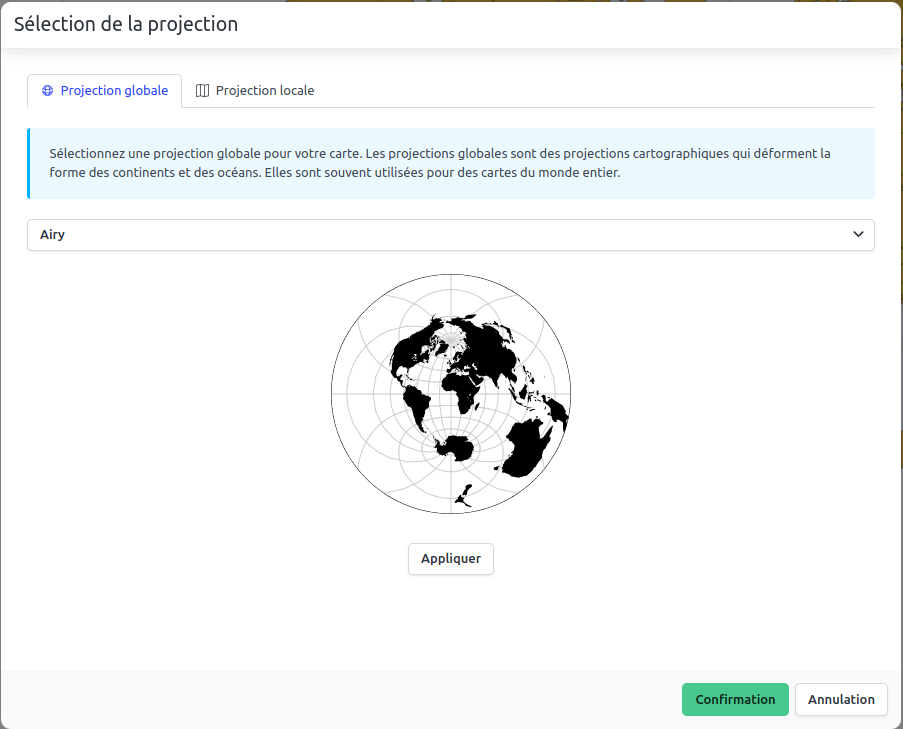
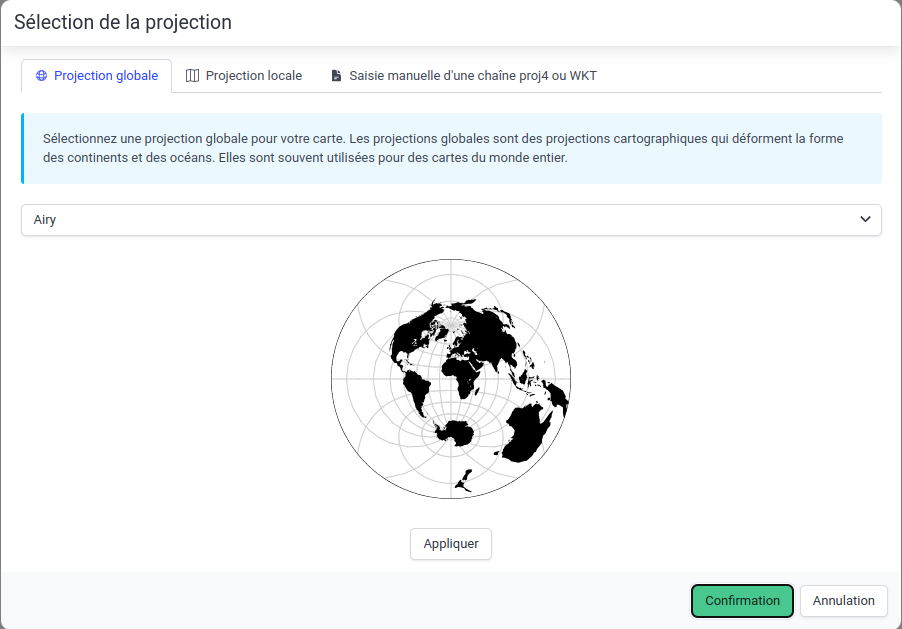
docs: improve minor stuff to keep it up to date with the app

diff --git a/docs/en/tutorials/tuto2.md b/docs/en/tutorials/tuto2.md
@@ -17,8 +17,8 @@ To do this, we're going to create a map of abstention in the second round of the
 
 ### 1.1 Recovering the base map
 
-The <a href="http://data.metropolegrenoble.fr/" >Grenoble Metropole's Open Data platform</a> makes numerous datasets available,
-including the delimitation of polling stations in the City of Grenoble: <a href="https://data.metropolegrenoble.fr/visualisation/information/?id=les-bureaux-de-vote" target="_blank" rel="noopener noreferrer">https://data.metropolegrenoble.fr/visualisation/information/?id=les-bureaux-de-vote</a>.
+The <a href="http://data.metropolegrenoble.fr/" target="_blank" rel="noopener noreferrer">Grenoble Metropole's Open Data platform</a> makes numerous datasets available,
+including the delimitation of polling stations in the City of Grenoble: https://data.metropolegrenoble.fr/visualisation/information/?id=les-bureaux-de-vote.
 
 <ZoomImg
     src="/tuto2-1.png"
@@ -38,7 +38,7 @@ We'll use the GeoJSON file for this example.
 ### 1.2 Retrieving the results of the 2022 legislative elections
 
 
-The results of the 2022 legislative elections are also available on the Grenoble Metropole's Open Data platform: <a href="https://data.metropolegrenoble.fr/visualisation/information/?id=resultats_des_elections_legislatives_de_la_ville_de_grenoble" target="_blank" rel="noopener noreferrer">https://data.metropolegrenoble.fr/visualisation/information/?id=resultats_des_elections_legislatives_de_la_ville_de_grenoble</a>.
+The results of the 2022 legislative elections are also available on the Grenoble Metropole's Open Data platform: https://data.metropolegrenoble.fr/visualisation/information/?id=resultats_des_elections_legislatives_de_la_ville_de_grenoble.
 
 <ZoomImg
     src="/tuto2-3.png"

diff --git a/docs/application-settings.md b/docs/application-settings.md
@@ -51,3 +51,13 @@ Pour chaque type d'élément (titre, sous-titre, notes, étiquettes), il est pos
 
 Il est possible de choisir la couleur par défaut pour les entités sans données (utilisée dans les cartes choroplèthes et choroplèthes catégorielles).
 
+### Activation de la fonctionnalité "Annuler / Rétablir"
+
+Il est possible d'activer ou de désactiver la fonctionnalité "Annuler / Rétablir" dans l'application.
+
+Celle-ci se matérialise par le présence de deux boutons dans la barre de menu de l'application, en haut à droite de l'écran.
+
+Il est alors possible d'annuler ou de rétablir les dernières actions effectuées dans l'application.
+
+Cette option est désactivée par défaut car elle s'avère particulièrement gourmande en ressources et peut ralentir l'application dans certains cas. Nous
+recommandons de l'activer uniquement si vous avez une configuration matérielle puissante et / ou lors du travail sur des jeux de données relativement légers.

diff --git a/docs/en/application-settings.md b/docs/en/application-settings.md
@@ -50,3 +50,14 @@ For each type of element (title, subtitle, notes, labels), the user can choose f
 ### Default color for no-data values
 
 It is possible to choose the default color for entities without data (this is used in choropleth and categorical choropleth maps).
+
+### Activating the “Undo / Redo” function
+
+It is possible to activate or deactivate the “Undo / Redo” functionality within the application.
+
+This is represented by two buttons in the application's menu bar, in the top right-hand corner of the screen.
+
+This allows you to undo or redo the last actions performed in the application.
+
+This option is disabled by default, as it is particularly resource-hungry and can slow down the application in some cases. We
+recommend activating it only if you have a powerful hardware configuration and/or when working with relatively light datasets.

diff --git a/docs/projection.md b/docs/projection.md
@@ -59,3 +59,15 @@ Lorsque le code EPSG de la projection désirée est connu, il est conseillé de 
     alt="Sélection d'une projection locale"
     caption="Sélection d'une projection locale"
 />
+
+### Utilisation d'une projection à partir d'une chaîne de caractères Proj4 ou WKT1
+
+Il est possible d'utiliser une projection à partir d'une chaîne de caractères Proj4 ou WKT1.
+
+Pour cela, il suffit de copier-coller la chaîne de caractères Proj4 ou WKT1 dans le champ dédié et de donner un nom à la projection.
+
+<ZoomImg
+    src="/projection-panel3.png"
+    alt="Création d'une projection à partir d'une chaîne de caractères Proj4 ou WKT1"
+    caption="Création d'une projection à partir d'une chaîne de caractères Proj4 ou WKT1"
+/>

diff --git a/docs/en/projection.md b/docs/en/projection.md
@@ -56,3 +56,15 @@ When the EPSG code of the desired projection is known, it is advisable to use it
     alt="Selection of a local projection"
     caption="Selection of a local projection"
 />
+
+### Using a projection from a Proj4 or WKT1 character string
+
+It's possible to use a projection from a Proj4 or WKT1 character string.
+
+Simply copy and paste the string Proj4 or WKT1 into the dedicated field and give the projection a name.
+
+<ZoomImg
+    src="/projection-panel3.png"
+    alt="Creation of a projection from a Proj4 or WKT1 character string"
+    caption="Creation of a projection from a Proj4 or WKT1 character string"
+/>
